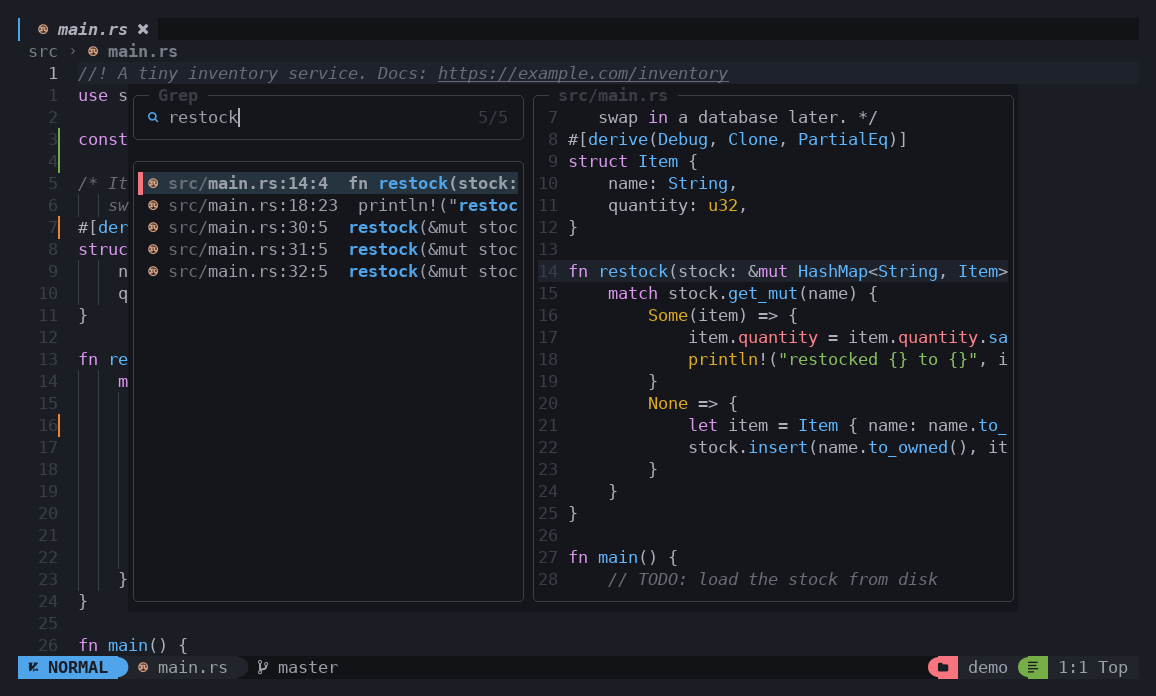
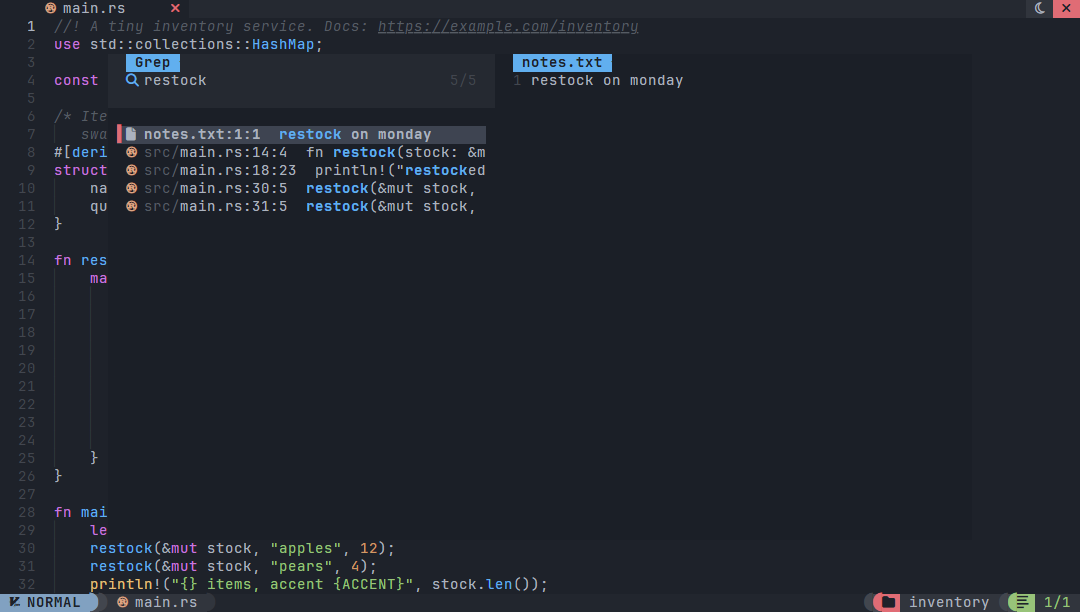
Retake the README screenshots from real frames; update the docs
A screenshots test plays each README scene with real keys in a small
demo project and writes its frame as SVG; the PNGs are rasterised from
them (docs/development.md says how). Twelve scenes now, the tools popup,
the visual selection and the settings among them, and captions that
match. The architecture page shows the tools modules and how a frame and
a line are drawn; the feature table says NvChad look.

diff --git a/src/render/gallery.rs b/src/render/gallery.rs
@@ -1,9 +1,12 @@
-//! The gallery of `docs/themes.md`: real frames drawn by the renderer, written as SVG to `docs/gallery`.
-//! Regenerate with `cargo test gallery -- --ignored` after changing a theme, an icon set or the bars.
+//! The gallery of `docs/themes.md` and the README's screenshots: real frames drawn by the renderer, written as SVG.
+//! `cargo test gallery -- --ignored` rewrites `docs/gallery` after a change to a theme, an icon set or the bars;
+//! `cargo test screenshots -- --ignored` writes the README's scenes to `target/screenshots`, to rasterise
+//! (docs/development.md).
 
 use std::fmt::{self, Write};
 use std::fs;
 use std::path::{Path, PathBuf};
+use std::sync::{Mutex, MutexGuard, PoisonError};
 
 use super::icons::SETS;
 use super::palettes::{DEFAULT, THEMES};
@@ -134,9 +137,13 @@ fn svg(grid: &Grid) -> String {
     out
 }
 
+/// The gallery reads the working directory (the file tree), which the screenshots change: one at a time.
+static WORKING_DIR: Mutex<()> = Mutex::new(());
+
 #[test]
 #[ignore = "writes docs/gallery; run with `cargo test gallery -- --ignored`"]
 fn gallery() {
+    let _cwd: MutexGuard<'_, ()> = WORKING_DIR.lock().unwrap_or_else(PoisonError::into_inner);
     let dir: PathBuf = Path::new(env!("CARGO_MANIFEST_DIR")).join("docs").join("gallery");
     fs::create_dir_all(&dir).unwrap();
     // Unicode icons for the themes, so the pictures need no Nerd Font to read.
@@ -196,4 +203,106 @@ fn which_key_has_the_editor_background() {
             "row {y} has another background"
         );
     }
+}
+
+/// The demo project the README's screenshots are taken in.
+const DEMO: &[(&str, &str)] = &[
+    ("Cargo.toml", "[package]\nname = \"inventory\"\nversion = \"0.1.0\"\nedition = \"2024\"\n"),
+    ("README.md", "# inventory\n\nA tiny stock service.\n"),
+    ("notes.txt", "restock on monday\n"),
+    ("src/stock.rs", "pub struct Stock;\n"),
+    ("src/main.rs", DEMO_MAIN),
+];
+
+const DEMO_MAIN: &str = r##"//! A tiny inventory service. Docs: https://example.com/inventory
+use std::collections::HashMap;
+
+const ACCENT: &str = "#61afef";
+
+/* Items are kept in memory;
+   swap in a database later. */
+#[derive(Debug, Clone, PartialEq)]
+struct Item {
+    name: String,
+    quantity: u32,
+}
+
+fn restock(stock: &mut HashMap<String, Item>, name: &str, amount: u32) {
+    match stock.get_mut(name) {
+        Some(item) => {
+            item.quantity = item.quantity.saturating_add(amount);
+            println!("restocked {} to {}", item.name, item.quantity);
+        }
+        None => {
+            // TODO: log unknown items
+            let item = Item { name: name.to_owned(), quantity: amount };
+            stock.insert(name.to_owned(), item);
+        }
+    }
+}
+
+fn main() {
+    let mut stock: HashMap<String, Item> = HashMap::new();
+    restock(&mut stock, "apples", 12);
+    restock(&mut stock, "pears", 4);
+    println!("{} items, accent {ACCENT}", stock.len());
+}
+"##;
+
+/// The README's screenshots: each scene played with real keys in the demo project, its frame written as SVG to
+/// `target/screenshots`, then rasterised to `docs/screenshots/*.png` (see docs/development.md).
+#[test]
+#[ignore = "writes target/screenshots; run with `cargo test screenshots -- --ignored`"]
+fn screenshots() {
+    let _cwd: MutexGuard<'_, ()> = WORKING_DIR.lock().unwrap_or_else(PoisonError::into_inner);
+    let out: PathBuf = Path::new(env!("CARGO_MANIFEST_DIR")).join("target").join("screenshots");
+    fs::create_dir_all(&out).unwrap();
+    let demo: PathBuf = std::env::temp_dir().join(format!("lim-demo-{}", std::process::id())).join("inventory");
+    for (name, text) in DEMO {
+        fs::create_dir_all(demo.join(name).parent().unwrap()).unwrap();
+        fs::write(demo.join(name), text).unwrap();
+    }
+    let back: PathBuf = std::env::current_dir().unwrap();
+    std::env::set_current_dir(&demo).unwrap();
+    for (name, size, keys) in scenes() {
+        // The theme picker installs the theme it previews: each scene starts from the default one.
+        apply_colorscheme(DEFAULT, &Config::default());
+        // As `lim src/main.rs`; the start screen is `lim` alone.
+        let files: Vec<String> = if name == "dashboard" { Vec::new() } else { vec!["src/main.rs".into()] };
+        let mut ed: Editor = Editor::new(&files);
+        ed.options.iconset = "nerd".into();
+        for key in keys {
+            ed.handle(key);
+        }
+        let (grid, _): (Grid, Option<(usize, usize)>) =
+            Screen::new(ColorDepth::TrueColor).compose(&mut ed, size.0, size.1);
+        fs::write(out.join(format!("{name}.svg")), svg(&grid)).unwrap();
+    }
+    std::env::set_current_dir(back).unwrap();
+    fs::remove_dir_all(demo.parent().unwrap()).unwrap();
+    apply_colorscheme(DEFAULT, &Config::default());
+}
+
+/// Each screenshot: its file name, its size in cells and the keys that set it up.
+fn scenes() -> Vec<(&'static str, (usize, usize), Vec<Key>)> {
+    let keys = |typed: &str| crate::fuzz::phrase_keys(typed);
+    let with = |mut first: Vec<Key>, more: &[Key]| {
+        first.extend_from_slice(more);
+        first
+    };
+    vec![
+        // The tree opens on `src`, unfolded, then the focus goes back to the code.
+        ("editor", (120, 34), with(keys(" el"), &[Key::Ctrl('l'), Key::Char('2'), Key::Char('1'), Key::Char('G')])),
+        ("dashboard", (120, 40), Vec::new()),
+        ("picker", (120, 34), keys(" ffma")),
+        ("grep", (120, 34), keys(" fwrestock")),
+        ("whichkey", (120, 34), keys("17G ")),
+        ("cheatsheet", (120, 34), vec![Key::F(1)]),
+        ("themes", (120, 34), keys(" fttokyo")),
+        ("completion", (120, 34), keys("30Goresto")),
+        ("cmdline", (120, 34), keys(":s")),
+        ("visual", (120, 34), keys("15GV4j")),
+        ("tools", (120, 34), keys(" xc2+3*4\nsqrt(2)\n200*15%\n")),
+        ("settings", (120, 34), keys(":settings\n")),
+    ]
 }

diff --git a/README.md b/README.md
@@ -44,17 +44,21 @@ lim is that editor with all of it **built in**:
 of Lerna: one body, many heads, like one editor working many windows. It greets you, in braille, on
 the start screen.
 
-![Editing: file tree, git signs, indent guides, TODO and color highlights](docs/screenshots/editor.png)
+![Editing: file tree, indent guides, TODO, URL and color highlights](docs/screenshots/editor.png)
 
-| Start screen | Find files |
+| **Start screen** (the hydra and nvdash's buttons) | **Find files** (with preview) |
 |---|---|
 | ![Start screen with the hydra](docs/screenshots/dashboard.png) | ![File picker with preview](docs/screenshots/picker.png) |
-| **Grep** | **which-key over two splits** |
+| **Live grep** | **which-key** (`<Leader>`) |
 | ![Live grep](docs/screenshots/grep.png) | ![which-key menu](docs/screenshots/whichkey.png) |
-| **Cheat sheet** (`<F1>`) | **Theme switcher** (`<Leader>ft`, live preview) |
+| **Cheat sheet** (`<F1>`) | **Theme switcher** (`<Leader>ft`, live on a code sample) |
 | ![Cheat sheet](docs/screenshots/cheatsheet.png) | ![Theme picker](docs/screenshots/themes.png) |
-| **Completion** (words from open buffers) | **Command-line completion** (tabs aligned with the windows) |
+| **Completion** (words from open buffers) | **Command-line completion** |
 | ![Completion menu](docs/screenshots/completion.png) | ![Command-line completion](docs/screenshots/cmdline.png) |
+| **Tools** (`<Leader>xc`, a popup that keeps its history) | **Visual line selection** |
+| ![Calculator popup](docs/screenshots/tools.png) | ![Visual line selection](docs/screenshots/visual.png) |
+| **Settings** (`<Leader>,`, every option, searchable) | |
+| ![Settings](docs/screenshots/settings.png) | |
 
 ## Features
 
@@ -63,7 +67,7 @@ the start screen.
 | Vim editing | Normal, insert, replace, visual, visual-line and visual-block modes · counts · operators `d c y > < gu gU g~ gc` over any motion or text object · `.` · macros · undo/redo (1000 levels) · named registers (`"a`, `"A` append, `"0`, `"1`–`"9` shifting, `"-`, `"_`, `"+`) · marks and jump list that follow edits · Vim regexes in `/`, `?`, `*`, `:s`, `:g` · `:g`/`:v`, `:norm`, `:sort`, `:m`, `:t`, `:r` · line ranges with offsets |
 | Motions | `h j k l w b e ge W B E gE 0 ^ $ g_ { } % gg G H M L f F t T ; , n N * #`, `gn` (`cgn` then `.`), page and line scrolling, `<S-arrows>` (word / page), `zz zt zb` · `:` and `/` history |
 | Text objects | `iw` `aw` `iW` `aW` `ip` `ap` `it` `at` (HTML/XML tags) `i(` `a(` `i[` `a[` `i{` `a{` `i<` `a<` `i"` `a"` `i'` `a'` `` i` `` `` a` `` |
-| AstroNvim look | 30 colorschemes (NvChad's onedark by default) · NvChad-style statusline (rounded, slanted, arrow or flat ends) · NvChad tabufline with jump labels and clickable tabs, close marks, light/dark and close-all buttons, aligned with the windows when the file tree is open · git branch and +/~/- counts in the statusline, and a hydra spinner while background commands (`:upgrade`, config commands) run · nvim-tree look for the file tree · optional winbar path and relative numbers · sign column · cursorline · borderless NvChad-style floats with pill titles · notifications · start screen with the hydra and nvdash buttons |
+| NvChad look | 30 colorschemes (NvChad's onedark by default) · NvChad-style statusline (rounded, slanted, arrow or flat ends) · NvChad tabufline with jump labels and clickable tabs, close marks, light/dark and close-all buttons, aligned with the windows when the file tree is open · git branch and +/~/- counts in the statusline, and a hydra spinner while background commands (`:upgrade`, config commands) run · nvim-tree look for the file tree · optional winbar path and relative numbers · sign column · cursor line number (or the whole cursorline) · borderless NvChad-style floats with pill titles · notifications · start screen with the hydra and nvdash buttons |
 | Code | keyword highlighting for 40+ languages and formats (Rust, Python, JS/TS, C/C++, C#, Java, Kotlin, Go, PHP, Ruby, Swift, Dart, Scala, Lua, SQL, HTML/XML, CSS/SCSS, Markdown, JSON/YAML/TOML, shell, PowerShell, batch, Makefile, Dockerfile, CMake, Zig, Haskell, Elixir, R, Perl, asm, Nix, Terraform...) with multi-line comments and strings, HTML tags and config keys · blink.cmp-style completion from the words of open buffers · autopairs · auto-indent · comment toggling |
 | Helpers | indent guides · matching bracket · references of the word under the cursor (`]r`) · URLs (`gx`) · `#RRGGBB` shown in its color · `TODO:`/`FIX:`/`HACK:`… highlighted (`]T`) · Markdown preview beside the file, live as you type (`<Leader>um`) |
 | Git | signs against the index · hunk jumps · graph of every branch, log, file log, status and stash pickers with diffs · `git browse` · status colors in the file tree |

diff --git a/docs/architecture.md b/docs/architecture.md
@@ -16,13 +16,18 @@ src/
 ├── editor/        modes, operators, registers, keymaps, the built-in binding table, windows, picker,
 │                  file tree, which-key, cheat sheet, completion, sessions, prompts, clipboard, macros,
 │                  text tools, reverse-engineering commands, config commands
+│   └── tools/     the <Leader>x tools, one module each (calc, units, bases, time, color, json, case,
+│                  generated text), and their popup
 ├── syntax/        keyword highlighter with multi-line state, language tables, todo-comments
 ├── config/        JSON reader, key notation, options/palette/highlights/keymaps/commands
 └── render/        cell grid, themes and palettes, icon sets, windows, bars, floats, picker, tree, start screen
 ```
 
-- **Rendering** draws each frame into a grid of cells (floats are later writes), encodes it to ANSI and sends
-  only the rows that changed; frames are skipped while keys are queued.
+- **Rendering** draws each frame into a grid of cells, back to front (`render/mod.rs`, `compose`): the tabline,
+  the side panels, the windows, the bars, then the floats over them. It encodes the grid to ANSI and sends only
+  the rows that changed; frames are skipped while keys are queued. A line of text is drawn in layers
+  (`render/view.rs`, `LinePaint`): its syntax color, then URL, word, TODO, hex color, bracket and selection or
+  search highlights over it.
 - **Built-in keys** live in one table (`editor/bindings.rs`): each prefixed key's action and description.
   The dispatcher, which-key, the cheat sheet and the keymaps picker all read it, so they cannot disagree.
 - **Undo** stores the lines an edit replaced, not copies of the file, and keeps 1000 steps. The same

diff --git a/docs/development.md b/docs/development.md
@@ -3,7 +3,7 @@
 Rust 1.88+, no dependencies. The code layout and design are in [How lim is built](architecture.md).
 
 ```sh
-cargo test                     # 125+ tests: behaviour, fuzzers on every input, perf budgets
+cargo test                     # 160+ tests: behaviour, fuzzers on every input, perf budgets
 cargo clippy --all-targets     # pedantic, zero warnings; unwrap/expect/panic are denied
 cargo fmt --check              # rustfmt.toml, 120 columns
 cargo test --release perf -- --nocapture   # the benchmark table: run it before and after a change
@@ -80,4 +80,14 @@ of 5, Neovim 0.12 with `-u NONE` (no config, no plugins: its fastest). lim must 
 
 (Linux in WSL, release build.)
 
-Screenshots are real lim frames captured in a pseudo-terminal and rasterised.
+## Screenshots
+
+The README's screenshots and the gallery of [Themes and icons](themes.md) are real lim frames, drawn by the
+renderer itself. `cargo test gallery -- --ignored` rewrites the gallery's SVGs in `docs/gallery`.
+`cargo test screenshots -- --ignored` plays each README scene with real keys in a small demo project and writes its
+frame as SVG to `target/screenshots`; run it on Linux (in WSL), so paths read `src/main.rs`. Each SVG is then
+rasterised to `docs/screenshots/<scene>.png` at its own size by a headless browser, with a Nerd Font installed:
+
+```powershell
+msedge --headless --disable-gpu --hide-scrollbars --screenshot=docs\screenshots\editor.png --window-size=1080,612 target\screenshots\editor.svg
+```
